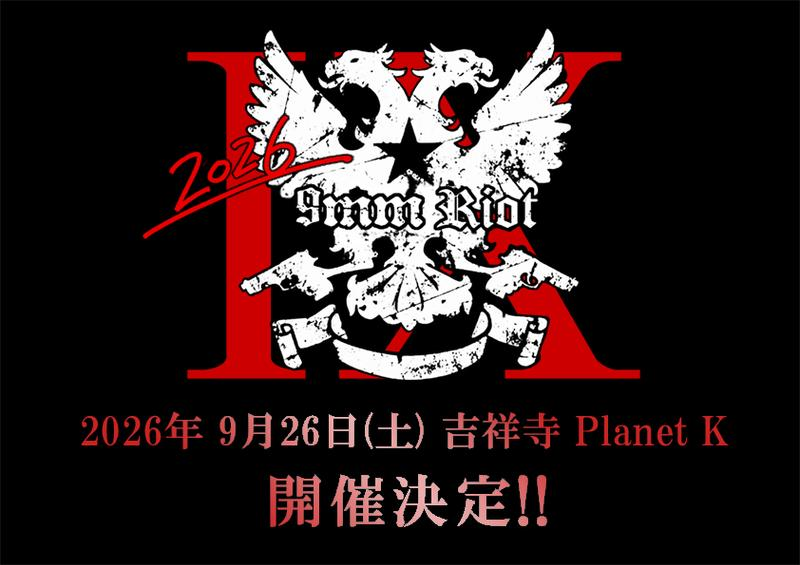
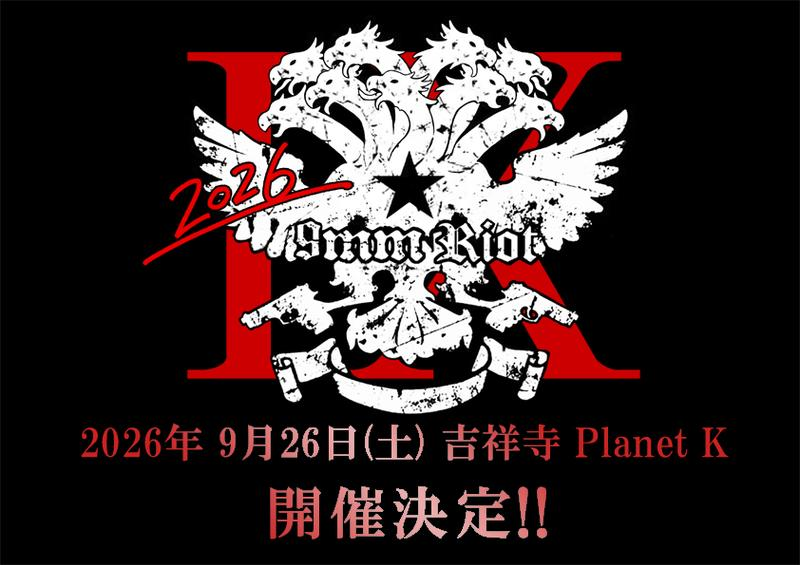
告知画像差替・URL変更・OGP更新
- 告知画像3を圧縮してriot9-flyer.jpgに差替（64KB）
- OGP画像を新しい告知画像で再作成（93KB）
- 全ファイルのOGP URLを9mmriot-official.netlify.appに変更
- README: URL更新、変更予定メモを更新

Changed region(s): [[0.0938, 0.0301, 0.9062, 0.8124], [0.3125, 0.8425, 0.6875, 0.9628]]

diff --git a/index.html b/index.html
@@ -8,7 +8,7 @@
   <!-- OGP -->
   <meta property="og:title" content="9mmRIOT - 9mm Parabellum Bullet ONLY COPY BAND EVENT">
   <meta property="og:description" content="9mm Parabellum Bulletオンリーのコピーバンドイベント。2016年より継続開催、延べ50組以上が出演。">
-  <meta property="og:image" content="https://darling-cascaron-e70987.netlify.app/images/ogp.jpg">
+  <meta property="og:image" content="https://9mmriot-official.netlify.app/images/ogp.jpg">
   <meta property="og:type" content="website">
   <meta name="twitter:card" content="summary">
   <meta name="twitter:site" content="@9mmRIOT">

diff --git a/pages/about.html b/pages/about.html
@@ -8,7 +8,7 @@
   <!-- OGP -->
   <meta property="og:title" content="9mmRIOT - 9mm Parabellum Bullet ONLY COPY BAND EVENT">
   <meta property="og:description" content="9mm Parabellum Bulletオンリーのコピーバンドイベント。2016年より継続開催、延べ50組以上が出演。">
-  <meta property="og:image" content="https://darling-cascaron-e70987.netlify.app/images/ogp.jpg">
+  <meta property="og:image" content="https://9mmriot-official.netlify.app/images/ogp.jpg">
   <meta property="og:type" content="website">
   <meta name="twitter:card" content="summary">
   <meta name="twitter:site" content="@9mmRIOT">

diff --git a/pages/entry-riot9.html b/pages/entry-riot9.html
@@ -8,7 +8,7 @@
   <!-- OGP -->
   <meta property="og:title" content="9mmRIOT - 9mm Parabellum Bullet ONLY COPY BAND EVENT">
   <meta property="og:description" content="9mm Parabellum Bulletオンリーのコピーバンドイベント。2016年より継続開催、延べ50組以上が出演。">
-  <meta property="og:image" content="https://darling-cascaron-e70987.netlify.app/images/ogp.jpg">
+  <meta property="og:image" content="https://9mmriot-official.netlify.app/images/ogp.jpg">
   <meta property="og:type" content="website">
   <meta name="twitter:card" content="summary">
   <meta name="twitter:site" content="@9mmRIOT">

diff --git a/pages/event.html b/pages/event.html
@@ -8,7 +8,7 @@
   <!-- OGP -->
   <meta property="og:title" content="9mmRIOT - 9mm Parabellum Bullet ONLY COPY BAND EVENT">
   <meta property="og:description" content="9mm Parabellum Bulletオンリーのコピーバンドイベント。2016年より継続開催、延べ50組以上が出演。">
-  <meta property="og:image" content="https://darling-cascaron-e70987.netlify.app/images/ogp.jpg">
+  <meta property="og:image" content="https://9mmriot-official.netlify.app/images/ogp.jpg">
   <meta property="og:type" content="website">
   <meta name="twitter:card" content="summary">
   <meta name="twitter:site" content="@9mmRIOT">

diff --git a/pages/news.html b/pages/news.html
@@ -8,7 +8,7 @@
   <!-- OGP -->
   <meta property="og:title" content="9mmRIOT - 9mm Parabellum Bullet ONLY COPY BAND EVENT">
   <meta property="og:description" content="9mm Parabellum Bulletオンリーのコピーバンドイベント。2016年より継続開催、延べ50組以上が出演。">
-  <meta property="og:image" content="https://darling-cascaron-e70987.netlify.app/images/ogp.jpg">
+  <meta property="og:image" content="https://9mmriot-official.netlify.app/images/ogp.jpg">
   <meta property="og:type" content="website">
   <meta name="twitter:card" content="summary">
   <meta name="twitter:site" content="@9mmRIOT">

diff --git a/pages/riot1.html b/pages/riot1.html
@@ -8,7 +8,7 @@
   <!-- OGP -->
   <meta property="og:title" content="9mmRIOT - 9mm Parabellum Bullet ONLY COPY BAND EVENT">
   <meta property="og:description" content="9mm Parabellum Bulletオンリーのコピーバンドイベント。2016年より継続開催、延べ50組以上が出演。">
-  <meta property="og:image" content="https://darling-cascaron-e70987.netlify.app/images/ogp.jpg">
+  <meta property="og:image" content="https://9mmriot-official.netlify.app/images/ogp.jpg">
   <meta property="og:type" content="website">
   <meta name="twitter:card" content="summary">
   <meta name="twitter:site" content="@9mmRIOT">

diff --git a/pages/riot2.html b/pages/riot2.html
@@ -8,7 +8,7 @@
   <!-- OGP -->
   <meta property="og:title" content="9mmRIOT - 9mm Parabellum Bullet ONLY COPY BAND EVENT">
   <meta property="og:description" content="9mm Parabellum Bulletオンリーのコピーバンドイベント。2016年より継続開催、延べ50組以上が出演。">
-  <meta property="og:image" content="https://darling-cascaron-e70987.netlify.app/images/ogp.jpg">
+  <meta property="og:image" content="https://9mmriot-official.netlify.app/images/ogp.jpg">
   <meta property="og:type" content="website">
   <meta name="twitter:card" content="summary">
   <meta name="twitter:site" content="@9mmRIOT">

diff --git a/pages/riot3.html b/pages/riot3.html
@@ -8,7 +8,7 @@
   <!-- OGP -->
   <meta property="og:title" content="9mmRIOT - 9mm Parabellum Bullet ONLY COPY BAND EVENT">
   <meta property="og:description" content="9mm Parabellum Bulletオンリーのコピーバンドイベント。2016年より継続開催、延べ50組以上が出演。">
-  <meta property="og:image" content="https://darling-cascaron-e70987.netlify.app/images/ogp.jpg">
+  <meta property="og:image" content="https://9mmriot-official.netlify.app/images/ogp.jpg">
   <meta property="og:type" content="website">
   <meta name="twitter:card" content="summary">
   <meta name="twitter:site" content="@9mmRIOT">

diff --git a/pages/riot4.html b/pages/riot4.html
@@ -8,7 +8,7 @@
   <!-- OGP -->
   <meta property="og:title" content="9mmRIOT - 9mm Parabellum Bullet ONLY COPY BAND EVENT">
   <meta property="og:description" content="9mm Parabellum Bulletオンリーのコピーバンドイベント。2016年より継続開催、延べ50組以上が出演。">
-  <meta property="og:image" content="https://darling-cascaron-e70987.netlify.app/images/ogp.jpg">
+  <meta property="og:image" content="https://9mmriot-official.netlify.app/images/ogp.jpg">
   <meta property="og:type" content="website">
   <meta name="twitter:card" content="summary">
   <meta name="twitter:site" content="@9mmRIOT">

diff --git a/pages/riot5.html b/pages/riot5.html
@@ -8,7 +8,7 @@
   <!-- OGP -->
   <meta property="og:title" content="9mmRIOT - 9mm Parabellum Bullet ONLY COPY BAND EVENT">
   <meta property="og:description" content="9mm Parabellum Bulletオンリーのコピーバンドイベント。2016年より継続開催、延べ50組以上が出演。">
-  <meta property="og:image" content="https://darling-cascaron-e70987.netlify.app/images/ogp.jpg">
+  <meta property="og:image" content="https://9mmriot-official.netlify.app/images/ogp.jpg">
   <meta property="og:type" content="website">
   <meta name="twitter:card" content="summary">
   <meta name="twitter:site" content="@9mmRIOT">

diff --git a/pages/riot6.html b/pages/riot6.html
@@ -8,7 +8,7 @@
   <!-- OGP -->
   <meta property="og:title" content="9mmRIOT - 9mm Parabellum Bullet ONLY COPY BAND EVENT">
   <meta property="og:description" content="9mm Parabellum Bulletオンリーのコピーバンドイベント。2016年より継続開催、延べ50組以上が出演。">
-  <meta property="og:image" content="https://darling-cascaron-e70987.netlify.app/images/ogp.jpg">
+  <meta property="og:image" content="https://9mmriot-official.netlify.app/images/ogp.jpg">
   <meta property="og:type" content="website">
   <meta name="twitter:card" content="summary">
   <meta name="twitter:site" content="@9mmRIOT">

diff --git a/pages/riot7.html b/pages/riot7.html
@@ -8,7 +8,7 @@
   <!-- OGP -->
   <meta property="og:title" content="9mmRIOT - 9mm Parabellum Bullet ONLY COPY BAND EVENT">
   <meta property="og:description" content="9mm Parabellum Bulletオンリーのコピーバンドイベント。2016年より継続開催、延べ50組以上が出演。">
-  <meta property="og:image" content="https://darling-cascaron-e70987.netlify.app/images/ogp.jpg">
+  <meta property="og:image" content="https://9mmriot-official.netlify.app/images/ogp.jpg">
   <meta property="og:type" content="website">
   <meta name="twitter:card" content="summary">
   <meta name="twitter:site" content="@9mmRIOT">
